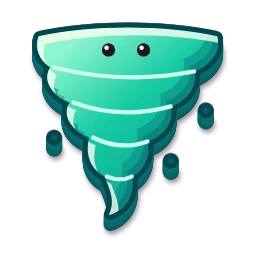
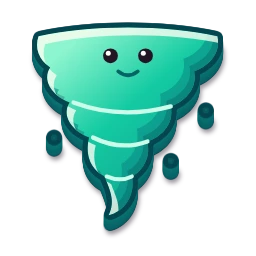
Charmfall: the charms are each kingdom's own creatures and nature (seal, snowman and polar bear on the ice, scorpion and lizard in the sand, phoenix and salamander in the fire...)

Changed region(s): [[0.1875, 0.1562, 0.7812, 0.3125]]

diff --git a/anim/charms-sea.js b/anim/charms-sea.js
@@ -1,8 +1,10 @@
 // The Ten Kingdoms (2026-11-23). İdris: "tılsım sembolleri çok fazla denize bağlamış... her 50 levelde bir krallık olsun: buz, ateş, orman, su,
 // hava... her birinin konsepti olsun". This file (it keeps its old name and globals from the Coral Cove days so nothing else has to change) now
 // holds the charms of all ten kingdoms: forest, water, fire, ice, air, sand, crystal, night, storm, star. Sixty charms.
+// Same day, second word from İdris: "her krallıkta tılsımlar o krallıkla, konusuyla ve temasıyla daha alakalı olsun... buz krallığıysa buz, kar, soğuk,
+// oraya ait hayvanlar ve canlılar". So every charm is a creature or a piece of nature of its kingdom; the everyday objects (mitten, lantern, boot...) are gone.
 // SEA_BL has six rows, one per colour slot (0 coral rose, 1 tangerine, 2 sun yellow, 3 lagoon turquoise, 4 ocean blue, 5 urchin violet), and each
-// row has ten names, one per kingdom in the order above: the game reads BL[slot][kingdom]. The water kingdom keeps six of the Coral Cove charms.
+// row has ten names, one per kingdom in the order above: the game reads BL[slot][kingdom]. The water kingdom keeps six of the Coral Cove charms. No charm appears in two kingdoms.
 // Shapes in a 100 x 100 box, same format as BLA: b = body parts, d = details. Every body part must run clockwise on screen, because the parts
 // are joined with the non-zero rule and a part wound the other way cuts a hole where it overlaps its neighbour; cw() below turns any part that
 // was drawn the other way, so a new shape cannot get this wrong. Body paths use only absolute M L C Q Z and one sub-path each.
@@ -37,55 +39,53 @@
   // shared outlines
   const STEM = "M36 62 L64 62 C63 73 68 84 70 91 C60 96 40 96 30 91 C32 84 37 73 36 62 Z";
   const ACAP = "M8 44 C8 24 28 14 50 14 C72 14 92 24 92 44 C92 50 88 52 50 52 C12 52 8 50 8 44 Z";
-  const CHST = "M22 36 C10 32 6 20 10 6 L20 8 C18 18 22 24 32 26 Z";
   const FLM = "M50 44 C58 54 68 62 66 76 C64 88 58 92 50 92 C42 92 34 86 34 74 C34 62 44 56 50 44 Z";
-  const CFL = "M50 2 C58 12 63 20 61 28 C59 35 54 37 50 37 C46 37 41 35 39 28 C37 20 42 12 50 2 Z";
   const FARM = "M44 50 L44 24 L32 14 L39 7 L44 12 L44 2 L56 2 L56 12 L61 7 L68 14 L56 24 L56 50 Z";
-  const BLADE = "M50 44 L50 2 C72 2 90 18 90 34 Z", FOLD = "M50 44 L50 8 L68 28 Z";
+  const BLADE = "M50 44 L50 2 C72 2 90 18 90 34 Z", FOLD = "M50 44 L50 10 L61 23 Z";
   const BEAK = "M16 46 L2 52 L16 58 Z", BOLT = "M53 60 L40 80 L50 80 L43 99 L64 74 L54 74 L61 60 Z";
-  const GEM = "M30 16 L40 2 L60 2 L70 16 L50 38 Z", SKB = "M14 84 L98 84 C98 92 92 97 84 97 L20 97 C10 97 4 90 6 82 L12 80 Z";
-  const LEAF = "M50 24 C40 6 22 2 10 8 C18 24 34 30 50 24 Z";
 
   const S = {
     // ================= 0 forest =================
-    mushroom: { b: ["M34 58 L66 58 C64 72 70 84 72 92 C60 98 40 98 28 92 C30 84 36 72 34 58 Z", "M4 52 C4 22 26 6 50 6 C74 6 96 22 96 52 C96 60 86 62 50 62 C14 62 4 60 4 52 Z"],
-      d: [["f", STEM, CR], ["w", ["c", 28, 36, 7.5]], ["w", ["c", 52, 22, 8.5]], ["w", ["c", 76, 38, 6.5]], ["w", ["c", 54, 46, 4.5]], ["k", 43, 75, 3.2], ["k", 57, 75, 3.2], ["S", "M45 82 Q50 86 55 82", 2.4]] },
     fox: { b: [...both("M8 4 L42 26 L14 48 Z"), "M50 22 C72 22 90 34 96 54 C90 66 70 84 50 96 C30 84 10 66 4 54 C10 34 28 22 50 22 Z"],
       d: [...both("M4 54 C18 56 34 62 44 78 L50 96 C30 84 10 66 4 54 Z").map(p => ["w", p]), ...both("M15 15 L32 27 L18 39 Z").map(p => ["f", p, CR]), ...eye(34, 52, 4.6), ...eye(66, 52, 4.6), ["k", 50, 89, 5]] },
+    squirrel: { b: ["M60 94 C84 98 99 78 97 54 C96 32 84 18 68 18 C55 18 49 30 54 42 C58 34 68 35 72 43 C78 55 72 70 58 78 Z", ["e", 36, 94, 15, 5, 0], ["e", 46, 68, 22, 26, 0], "M24 24 L21 5 L35 16 Z", "M38 22 L40 3 L52 18 Z", ["e", 21, 42, 11, 9, 0], ["c", 35, 36, 19]],
+      d: [...eye(30, 33, 4), ["k", 12, 40, 3], ["S", "M14 46 Q19 49 24 46", 2], ["f", ["c", 32, 45, 4], PK], ["w", ["e", 42, 72, 10, 15, 0]], ["f", ["c", 25, 64, 7.5], "#b9772e"], ["S", "M18 62 L32 62", 2], ["s", "M72 26 C88 32 90 58 78 76", 3]] },
     acorn: { b: ["M46 18 L46 6 C48 0 58 0 58 6 L54 9 L54 18 Z", "M18 44 L82 44 C84 70 68 88 50 98 C32 88 16 70 18 44 Z", ACAP],
       d: [["f", ACAP, "#b9772e"], ["S", "M22 28 L34 50 M38 18 L50 50 M56 16 L66 50 M72 22 L82 46", 2], ...face(64, 9), ...cheeks(73, 18), ["w", ["e", 30, 60, 3, 6, .4]]] },
     pine: { b: ["M50 2 L72 28 L61 28 L82 54 L69 54 L94 84 L59 84 L59 98 L41 98 L41 84 L6 84 L31 54 L18 54 L39 28 L28 28 Z"],
       d: [["f", "M43 85 L57 85 L57 97 L43 97 Z", BR], ["s", "M36 31 Q50 39 64 31", 3], ["s", "M26 57 Q50 68 74 57", 3], ["w", ["c", 50, 14, 3.4]], ["f", ["c", 34, 72, 3.6], YL], ["f", ["c", 62, 70, 3.6], RED], ["f", ["c", 46, 46, 3.2], RED]] },
     butterfly: { b: [["e", 26, 32, 24, 26, -.4], ["e", 74, 32, 24, 26, .4], ["e", 30, 74, 19, 20, .4], ["e", 70, 74, 19, 20, -.4], ["e", 50, 52, 8, 32, 0]],
       d: [["w", ["c", 24, 30, 9]], ["w", ["c", 76, 30, 9]], ["f", ["c", 30, 76, 7], YL], ["f", ["c", 70, 76, 7], YL], ["f", ["e", 50, 53, 3.6, 26, 0], "#1c2a6b"], ["S", "M47 22 Q42 8 33 6 M53 22 Q58 8 67 6", 3], ["k", 33, 6, 2.6], ["k", 67, 6, 2.6]] },
-    berry: { b: [...both(LEAF), "M46 26 L46 10 L54 10 L54 26 Z", ["c", 29, 44, 15], ["c", 71, 44, 15], ["c", 50, 40, 15], ["c", 39, 64, 15], ["c", 61, 64, 15], ["c", 50, 84, 15]],
-      d: [...both(LEAF).map(p => ["f", p, G]), ...[[29, 44], [71, 44], [50, 40], [39, 64], [61, 64], [50, 84]].map(([x, y]) => ["w", ["c", x - 5, y - 6, 3]]), ["k", 44, 58, 3], ["k", 56, 58, 3], ["S", "M46 65 Q50 68 54 65", 2.2]] },
-    // ================= 1 water (Coral Cove) =================
+    mushroom: { b: ["M34 58 L66 58 C64 72 70 84 72 92 C60 98 40 98 28 92 C30 84 36 72 34 58 Z", "M4 52 C4 22 26 6 50 6 C74 6 96 22 96 52 C96 60 86 62 50 62 C14 62 4 60 4 52 Z"],
+      d: [["f", STEM, CR], ["w", ["c", 28, 36, 7.5]], ["w", ["c", 52, 22, 8.5]], ["w", ["c", 76, 38, 6.5]], ["w", ["c", 54, 46, 4.5]], ["k", 43, 75, 3.2], ["k", 57, 75, 3.2], ["S", "M45 82 Q50 86 55 82", 2.4]] },
+    // ================= 1 water =================
     starfish: { b: [puffStar], d: [...face(52, 8), ...cheeks(60, 15), ...[[50, 22], [50, 34], [24, 46], [76, 46], [34, 80], [66, 80]].map(([x, y]) => ["o", x, y])] },
-    seahorse: { b: ["M42 6 C60 2 74 14 74 30 C74 40 70 46 72 56 C76 70 72 84 58 92 C44 98 28 92 28 78 C28 66 42 62 50 70 C54 76 50 84 44 80 C46 88 58 86 60 76 C62 66 52 60 48 52 C44 44 46 38 42 34 L22 40 C14 41 12 32 20 30 L38 24 C34 16 36 8 42 6 Z", "M72 36 C86 34 92 48 78 58 Z"], d: [...eye(52, 22, 4.4), ["f", "M72 38 C82 38 86 46 78 54 Z", YL], ["S", "M52 42 L62 40 M54 52 L66 52 M60 64 L70 66", 2.4], ["f", ["c", 44, 30, 4], PK], ["w", ["e", 60, 14, 6, 3, .5]]] },
-    shell: { b: ["M50 94 L34 88 L30 78 C8 66 2 42 14 26 C24 10 40 6 50 6 C60 6 76 10 86 26 C98 42 92 66 70 78 L66 88 Z"], d: [["S", "M50 80 L20 32", 2.8], ["S", "M50 80 L34 14", 2.8], ["S", "M50 80 L50 8", 2.8], ["S", "M50 80 L66 14", 2.8], ["S", "M50 80 L80 32", 2.8], ["w", ["e", 30, 30, 5, 10, .5]]] },
+    crab: { b: [["c", 13, 30, 13], ["c", 87, 30, 13], "M14 36 L26 34 L34 56 L22 60 Z", "M86 36 L78 60 L66 56 L74 34 Z", ["e", 12, 74, 11, 5.5, -.5], ["e", 88, 74, 11, 5.5, .5], ["e", 20, 88, 10, 5, -.3], ["e", 80, 88, 10, 5, .3], ["c", 38, 26, 9], ["c", 62, 26, 9], "M34 30 L42 30 L44 44 L36 44 Z", "M58 30 L66 30 L64 44 L56 44 Z", ["e", 50, 64, 35, 27, 0]],
+      d: [...bigEye(38, 26, 6.5), ...bigEye(62, 26, 6.5), ["S", "M6 24 L16 31 M94 24 L84 31", 3], ["S", "M40 70 Q50 79 60 70", 3.4], ...cheeks(68, 22), ["w", ["e", 38, 48, 9, 4, -.3]]] },
+    seahorse: { b: ["M42 6 C60 2 74 14 74 30 C74 40 70 46 72 56 C76 70 72 84 58 92 C44 98 28 92 28 78 C28 66 42 62 50 70 C54 76 50 84 44 80 C46 88 58 86 60 76 C62 66 52 60 48 52 C44 44 46 38 42 34 L22 40 C14 41 12 32 20 30 L38 24 C34 16 36 8 42 6 Z", "M72 36 C86 34 92 48 78 58 Z"], d: [...eye(52, 22, 4.4), ["f", "M72 38 C82 38 86 46 78 54 Z", OR], ["S", "M52 42 L62 40 M54 52 L66 52 M60 64 L70 66", 2.4], ["f", ["c", 44, 30, 4], PK], ["w", ["e", 60, 14, 6, 3, .5]]] },
     turtle: { b: [["c", 86, 56, 13], ["e", 22, 84, 11, 8, 0], ["e", 68, 84, 11, 8, 0], "M4 72 C4 36 24 14 48 14 C72 14 92 36 92 72 Z"], d: [["f", "M30 44 L48 32 L66 44 L62 62 L34 62 Z", "#137a26"], ["S", "M48 14 L48 32 M30 44 L12 40 M66 44 L84 40 M34 62 L24 72 M62 62 L72 72", 3], ...eye(90, 52, 3), ["S", "M86 62 Q90 65 94 62", 2.2]] },
     whale: { b: ["M78 50 L92 26 C100 42 98 60 88 68 Z", WHALE], d: [...eye(24, 52, 4.2), ["w", "M10 70 C28 84 56 86 76 74 C60 92 22 92 10 70 Z"], ["S", "M12 62 Q18 67 24 63", 3], ["f", ["c", 34, 62, 5], PK], ["S", "M46 26 Q42 14 34 12 M48 26 Q52 14 60 12", 2.6]] },
     octopus: { b: ["M50 6 C78 6 92 28 90 48 C89 58 86 62 88 70 C90 80 98 80 98 88 C98 97 82 97 78 86 C76 80 74 74 70 76 C66 78 70 90 64 95 C58 99 52 92 54 82 C55 78 52 76 50 76 C48 76 45 78 46 82 C48 92 42 99 36 95 C30 90 34 78 30 76 C26 74 24 80 22 86 C18 97 2 97 2 88 C2 80 10 80 12 70 C14 62 11 58 10 48 C8 28 22 6 50 6 Z"], d: [...face(42, 13), ...cheeks(52, 24), ["w", ["e", 30, 20, 8, 4, -.5]]] },
     // ================= 2 fire =================
-    chili: { b: [CHST, "M22 30 C22 16 40 10 58 16 C82 24 96 50 90 78 C88 88 84 94 78 98 C80 84 76 66 62 54 C52 46 40 46 30 44 C24 42 22 36 22 30 Z"],
-      d: [["f", CHST, G], ["w", ["e", 66, 28, 9, 3.4, .6]], ...eye(38, 29, 3.8), ...eye(53, 33, 3.8), ["S", "M40 37 Q46 41 51 40", 2.4]] },
+    phoenix: { b: [...both("M46 58 C34 62 14 56 1 32 C8 36 14 36 18 31 C13 22 13 12 17 1 C23 10 29 14 36 16 C34 23 36 30 46 40 Z"), "M38 70 C34 84 26 92 12 98 C28 101 40 96 50 100 C60 96 72 101 88 98 C74 92 66 84 62 70 Z", "M44 20 C40 10 46 3 52 0 C52 6 60 10 56 20 Z", ["e", 50, 57, 17, 22, 0], ["c", 50, 31, 14]],
+      d: [["f", "M46 19 C44 12 48 7 51 4 C52 9 57 12 54 19 Z", YL], ["f", ["e", 50, 61, 9, 14, 0], YL], ["k", 44.5, 29, 3], ["k", 55.5, 29, 3], ["f", "M46 34 L54 34 L50 42 Z", "#ffd21f"], ["s", "M40 48 Q24 46 10 36", 3], ["s", "M60 48 Q76 46 90 36", 3], ["f", "M50 80 C54 86 54 91 50 96 C46 91 46 86 50 80 Z", YL], ["f", "M30 84 C32 88 30 92 24 95 C24 91 26 87 30 84 Z", YL], ["f", "M70 84 C74 87 76 91 76 95 C70 92 68 88 70 84 Z", YL]] },
     flame: { b: ["M50 2 C56 20 78 30 84 54 C90 78 72 98 50 98 C28 98 10 80 16 56 C18 46 24 40 28 32 C32 42 36 46 40 44 C36 28 42 12 50 2 Z"],
       d: [["f", FLM, YL], ["k", 44, 73, 3.2], ["k", 56, 73, 3.2], ["S", "M45 80 Q50 84 55 80", 2.4]] },
-    sun: { b: [star(12, 49, 36, 50, 50), ["c", 50, 50, 35]], d: [["S", "M50 20 C66.6 20 80 33.4 80 50 C80 66.6 66.6 80 50 80 C33.4 80 20 66.6 20 50 C20 33.4 33.4 20 50 20", 1.6], ...face(46, 11), ...cheeks(56, 20)] },
+    salamander: { b: ["M30 34 L10 40 L8 49 L16 50 L34 43 Z", ["c", 9, 45, 5.5], "M46 28 L64 16 L71 22 L52 37 Z", ["c", 69, 18, 5.5], "M40 56 L20 68 L25 76 L46 65 Z", ["c", 21, 73, 5.5], "M58 50 L80 44 L83 53 L61 59 Z", ["c", 83, 48, 5.5], "M50 58 C66 64 80 76 76 90 C74 98 62 99 57 92 C64 93 68 88 64 82 C60 74 50 72 42 66 Z", ["e", 24, 16, 16, 13, .6], ["e", 44, 44, 14, 27, -.5]],
+      d: [["k", 15, 15, 3], ["k", 27, 8, 3], ["S", "M14 24 Q20 27 26 22", 2], ...[[38, 32, 5], [49, 48, 5], [57, 64, 4], [70, 82, 3.4], [28, 18, 3.4]].map(([x, y, r]) => ["f", ["c", x, y, r], "#4a3008"])] },
     dragon: { b: [...both("M30 36 L20 6 L44 26 Z"), ...both("M22 54 L2 30 L6 50 L0 60 L8 64 L4 80 L24 72 Z"), "M43 30 L50 14 L57 30 Z", ["e", 50, 60, 32, 32, 0]],
       d: [...both("M29 30 L23 13 L38 25 Z").map(p => ["f", p, CR]), ["f", ["e", 50, 74, 17, 11, 0], "#b8f5dc"], ["k", 44, 72, 2], ["k", 56, 72, 2], ...bigEye(36, 52, 8), ...bigEye(64, 52, 8), ["w", "M39 82 L43 89 L46 83 Z"], ["w", "M54 83 L57 89 L61 82 Z"]] },
-    candle: { b: [["e", 50, 92, 40, 7, 0], "M27 40 C27 35 31 33 36 33 L64 33 C69 33 73 35 73 40 L73 92 L27 92 Z", CFL],
-      d: [["f", CFL, "#ffd21f"], ["f", "M50 16 C54 22 56 26 55 30 C54 33 46 33 45 30 C44 26 46 22 50 16 Z", "#ff7a2a"], ["s", "M28 44 C36 52 40 44 44 50 C48 58 54 46 60 52 C64 56 68 48 72 46", 3], ...face(64, 9), ...cheeks(73, 17)] },
+    ember: { b: ["M30 14 L62 8 L88 30 L95 62 L74 91 L36 95 L9 74 L5 40 Z"],
+      d: [["f", "M38 16 L47 38 L36 56 L50 76 L46 92 L40 78 L27 57 L39 38 L33 18 Z", "#ff7a2a"], ["f", "M47 38 L68 44 L88 36 L90 42 L69 51 L45 44 Z", "#ffd21f"], ["f", "M50 76 L70 70 L80 82 L76 86 L68 77 L50 82 Z", "#ff7a2a"], ["k", 60, 58, 3.4], ["k", 74, 58, 3.4], ["S", "M63 65 Q67 68 71 65", 2.2], ["s", "M14 42 L28 22", 2.6]] },
     volcano: { b: [["c", 50, 13, 10], ["c", 32, 13, 6.5], ["c", 69, 10, 6.5], "M2 96 L34 30 C38 24 44 28 50 26 C56 24 62 24 66 30 L98 96 Z"],
       d: [["f", ["c", 50, 13, 8], "#ff7a2a"], ["f", ["c", 32, 13, 4.8], "#ff7a2a"], ["f", ["c", 69, 10, 4.8], "#ffd21f"], ["f", "M34 30 C38 24 44 28 50 26 C56 24 62 24 66 30 L70 40 C66 48 61 40 58 46 C56 54 49 56 47 48 C45 42 40 50 36 46 L31 36 Z", "#ff7a2a"], ["k", 42, 70, 3.6], ["k", 58, 70, 3.6], ["S", "M44 78 Q50 83 56 78", 2.6], ["s", "M20 90 L30 70 M80 90 L72 72", 2.4]] },
     // ================= 3 ice =================
-    mitten: { b: [["e", 19, 48, 12, 18, -.5], "M28 68 L28 34 C28 14 42 4 56 4 C72 4 84 16 84 34 L84 68 Z", "M22 64 L90 64 C93 64 94 66 94 69 L94 91 C94 95 92 97 88 97 L24 97 C20 97 18 95 18 91 L18 69 C18 66 19 64 22 64 Z"],
-      d: [["w", "M23 66 L89 66 C91 66 92 67 92 70 L92 90 C92 93 91 95 88 95 L24 95 C21 95 20 93 20 90 L20 70 C20 67 21 66 23 66 Z"], ["S", "M34 70 L34 91 M48 70 L48 91 M62 70 L62 91 M76 70 L76 91", 1.6], ["w", star(6, 15, 6, 56, 36)]] },
-    lantern: { b: [...band(50, 11, 11, 10, 5, 4.5), "M34 28 L38 16 L62 16 L66 28 Z", "M24 28 L76 28 C83 44 83 68 76 84 L24 84 C17 68 17 44 24 28 Z", "M20 82 L80 82 L86 98 L14 98 Z"],
-      d: [["f", "M32 35 L68 35 C73 48 73 64 68 77 L32 77 C27 64 27 48 32 35 Z", YL], ["f", "M50 42 C57 52 60 60 57 67 C55 72 45 72 43 67 C40 60 43 52 50 42 Z", "#ff7a2a"], ["S", "M34 28 L66 28", 2.4], ["s", "M20 90 L80 90", 2.4]] },
-    skate: { b: [...["M28 68 L40 68 L40 86 L28 86 Z", "M72 68 L84 68 L84 86 L72 86 Z"], SKB, "M30 4 L60 4 L60 34 C74 38 92 46 94 60 L94 72 L20 72 L20 44 C20 34 30 30 30 20 Z"],
-      d: [["f", SKB, "#dfe8f0"], ["w", "M27 2 L63 2 C65 2 66 3 66 5 L66 13 C66 15 65 16 63 16 L27 16 C25 16 24 15 24 13 L24 5 C24 3 25 2 27 2 Z"], ["S", "M44 26 L58 22 M44 36 L60 34 M46 47 L64 46", 2.6], ["s", "M24 65 L90 65", 2.4]] },
+    seal: { b: ["M84 52 L76 30 L90 40 L99 26 L99 54 Z", "M36 78 C28 88 14 96 2 94 C8 84 18 76 28 68 Z", "M8 32 C8 14 22 6 34 10 C46 14 50 28 50 42 C52 56 64 64 78 62 C84 60 88 54 90 46 L99 50 C98 60 96 70 90 78 C80 92 56 96 36 92 C18 88 8 70 8 52 Z"],
+      d: [...eye(19, 28, 4), ...eye(35, 28, 4), ["k", 27, 36, 3.2], ["S", "M22 42 Q27 46 32 42", 2], ["S", "M18 38 L7 37 M18 41 L8 44 M36 38 L46 36 M36 41 L45 44", 1.5], ...cheeks(40, 13, 27), ["w", ["e", 50, 84, 20, 5, -.05]], ["o", 62, 72], ["o", 74, 70], ["o", 68, 78]] },
+    snowman: { b: [...both("M28 62 L6 44 L3 51 L24 70 Z"), "M38 2 L62 2 L64 18 L36 18 Z", "M26 15 L74 15 L74 23 L26 23 Z", "M31 47 L69 47 L69 58 L31 58 Z", ["c", 50, 35, 18], ["c", 50, 74, 25]],
+      d: [["w", ["c", 50, 36, 13]], ["w", ["c", 50, 77, 20.5]], ["f", "M56 55 L67 55 L69 74 L59 74 Z", "#ff8a1f"], ["S", "M33 52 L67 52", 1.6], ["k", 45, 33, 2.6], ["k", 55, 33, 2.6], ["f", "M50 36 L63 39.5 L50 42 Z", "#ff7a2a"], ["S", "M44 44 Q50 48 56 44", 1.8], ["k", 48, 70, 2.6], ["k", 48, 82, 2.6], ["s", "M40 8 L60 8", 2.4]] },
+    polarbear: { b: [["c", 93, 54, 6], "M27 66 L49 66 L47 98 L29 98 Z", "M68 66 L93 66 L93 98 L70 98 Z", ["c", 16, 28, 7], ["c", 33, 28, 7], ["e", 9, 52, 9, 7.5, 0], ["e", 59, 58, 35, 24, 0], ["c", 24, 46, 19]],
+      d: [["f", ["c", 16, 28, 3.4], PK], ["f", ["c", 33, 28, 3.4], PK], ...eye(17, 42, 3.4), ...eye(31, 42, 3.4), ["k", 4, 49, 3.4], ["S", "M5 56 Q10 60 15 56", 2.2], ["f", ["c", 30, 53, 4.4], PK], ["s", "M44 40 Q62 34 80 44", 3], ["S", "M38 90 L38 98 M81 90 L81 98", 1.8]] },
     snowflake: { b: [...[0, 1, 2, 3, 4, 5].map(k => rt(FARM, k * P / 3)), ["c", 50, 50, 14]],
       d: [["w", star(6, 10, 5, 50, 50)], ...[0, 1, 2, 3, 4, 5].map(k => ["s", rt("M50 34 L50 8", k * P / 3), 2.2])] },
     penguin: { b: [["e", 36, 94, 13, 5.5, 0], ["e", 64, 94, 13, 5.5, 0], ["e", 13, 60, 8, 21, .35], ["e", 87, 60, 8, 21, -.35], ["e", 50, 52, 33, 44, 0]],
@@ -97,32 +97,32 @@
       d: [["w", "M50 3 C36 16 32 44 40 77 L60 77 C68 44 64 16 50 3 Z"], ["S", "M22 14 C10 34 18 60 37 77 M78 14 C90 34 82 60 63 77", 2], ["f", "M36 85 L64 85 L61 98 L39 98 Z", "#b9772e"], ["S", "M37 91 L63 91", 1.8]] },
     kite: { b: ["M46 78 L54 78 C54 86 66 84 72 90 C76 94 82 94 88 90 L90 97 C82 101 72 99 66 94 C58 88 46 92 46 78 Z", "M50 2 L90 40 L50 82 L10 40 Z"],
       d: [["w", "M50 6 L86 40 L50 40 Z"], ["w", "M14 40 L50 40 L50 78 Z"], ["S", "M50 4 L50 80 M12 40 L88 40", 2.4], ["k", 50, 40, 3]] },
-    canary: { b: ["M76 50 L99 30 L98 58 L84 68 Z", BEAK, "M34 30 C30 18 38 10 46 14 C42 18 44 26 48 30 Z", ["e", 48, 58, 34, 30, 0]],
+    sparrow: { b: ["M76 50 L99 30 L98 58 L84 68 Z", BEAK, "M34 30 C30 18 38 10 46 14 C42 18 44 26 48 30 Z", ["e", 48, 58, 34, 30, 0]],
       d: [["f", BEAK, "#ff8a2a"], ...bigEye(30, 48, 7.5), ["f", "M40 60 C54 50 72 58 74 72 C60 82 44 76 40 60 Z", "#f0a81a"], ["f", ["c", 24, 63, 4.5], PK], ["S", "M42 88 L42 98 M56 88 L56 98 M37 98 L47 98 M51 98 L61 98", 2.6]] },
-    plane: { b: ["M98 6 L2 44 L36 58 L44 92 L58 68 L78 82 Z"],
-      d: [["f", "M36 58 L98 6 L58 68 L44 92 Z", "#0b8f88"], ["S", "M98 6 L36 58 M98 6 L58 68", 2.2], ["s", "M14 44 L70 22", 2.4]] },
+    dragonfly: { b: [["e", 25, 29, 25, 10, -.25], ["e", 75, 29, 25, 10, .25], ["e", 28, 51, 22, 9, .3], ["e", 72, 51, 22, 9, -.3], "M44 40 L56 40 L54 95 C53 100 47 100 46 95 Z", ["e", 50, 33, 10, 13, 0], ["c", 50, 13, 11]],
+      d: [["w", ["e", 25, 29, 19, 5.5, -.25]], ["w", ["e", 75, 29, 19, 5.5, .25]], ["w", ["e", 28, 51, 16, 5, .3]], ["w", ["e", 72, 51, 16, 5, -.3]], ["k", 44, 11, 4], ["k", 56, 11, 4], ["S", "M46 19 Q50 22 54 19", 1.8], ["S", "M45 52 L55 52 M45.5 64 L54.5 64 M46 76 L54 76 M46.5 88 L53.5 88", 2]] },
     cloud: { b: ["M28 60 L74 60 L74 84 L28 84 Z", ["c", 26, 60, 24], ["c", 76, 60, 22], ["c", 50, 42, 28]],
       d: [...face(56, 11), ...cheeks(66, 21), ["w", ["e", 40, 25, 9, 4, -.5]]] },
-    pinwheel: { b: ["M46 44 L54 44 L54 100 L46 100 Z", ...[0, 1, 2, 3].map(k => rt(BLADE, k * P / 2, 50, 44))],
-      d: [...[0, 1, 2, 3].map(k => ["w", rt(FOLD, k * P / 2, 50, 44)]), ["f", ["c", 50, 44, 7], YL], ["k", 50, 44, 2.4]] },
+    eagle: { b: [...both("M43 38 C32 20 14 12 0 18 L6 29 L0 35 L8 42 L2 49 L12 54 L8 63 C22 67 34 64 44 58 Z"), "M41 68 L59 68 L66 94 L50 87 L34 94 Z", ["e", 50, 54, 14, 22, 0], ["c", 50, 29, 13]],
+      d: [["w", ["c", 50, 29, 10.5]], ["k", 45, 28, 2.6], ["k", 55, 28, 2.6], ["S", "M40 23 L47 25.5 M60 23 L53 25.5", 2], ["f", "M46 32 L54 32 L50 42 Z", "#ffc21f"], ["s", "M40 46 Q24 32 8 30", 2.6], ["s", "M60 46 Q76 32 92 30", 2.6], ["S", "M50 72 L50 86 M44 72 L41 88 M56 72 L59 88", 1.6]] },
     // ================= 5 sand =================
-    amphora: { b: [...both("M40 14 C20 8 6 24 12 40 C15 47 22 49 27 45 L31 38 C24 40 20 34 22 28 C24 22 32 20 40 23 Z"), "M32 2 L68 2 L68 11 L32 11 Z", "M38 6 L62 6 L60 14 C58 22 62 26 70 34 C84 46 84 70 68 86 L66 98 L34 98 L32 86 C16 70 16 46 30 34 C38 26 42 22 40 14 Z"],
-      d: [["s", "M21 50 Q50 58 79 50", 2.6], ["S", "M22 62 L29 70 L36 62 L43 70 L50 62 L57 70 L64 62 L71 70 L78 62", 2.4], ["s", "M27 80 Q50 87 73 80", 2.6], ["w", ["e", 35, 40, 2.6, 7, .3]], ["S", "M33 11 L67 11", 2]] },
-    camel: { b: ["M84 46 L97 60 L92 64 L81 54 Z", "M35 60 L45 60 L43 98 L34 98 Z", "M48 64 L57 64 L56 98 L48 98 Z", "M64 64 L73 64 L73 98 L65 98 Z", "M76 60 L86 60 L87 98 L78 98 Z", ["c", 30, 10, 5], "M36 58 L21 22 L34 17 L48 44 Z", ["e", 18, 21, 16, 10, -.15], ["c", 45, 38, 14], ["c", 71, 38, 14], ["e", 59, 53, 29, 17, 0]],
-      d: [...eye(17, 17, 3.2), ["S", "M5 25 Q9 28 14 26", 2], ["f", "M47 42 C54 48 62 48 69 42 L72 60 L44 60 Z", RED], ["s", "M45 55 L71 55", 2], ["f", ["c", 58, 50, 3], YL]] },
+    scorpion: { b: ["M34 80 L27 96 L34 97 L41 82 Z", "M46 82 L44 98 L51 98 L53 82 Z", "M58 80 L63 97 L70 95 L65 78 Z", "M28 68 L6 54 L13 44 L34 58 Z", "M34 62 L23 38 L34 34 L44 59 Z", ["c", 11, 42, 12.5], ["c", 29, 29, 11.5], ["c", 74, 62, 10.5], ["c", 85, 49, 10], ["c", 87, 34, 10], ["c", 78, 21, 10], ["c", 64, 15, 9.5], "M60 6 L42 20 L60 25 Z", ["e", 46, 70, 28, 17, 0]],
+      d: [["k", 28, 67, 3], ["k", 37, 64, 3], ["S", "M30 75 Q35 78 40 74", 2], ["S", "M50 57 L50 83 M60 59 L60 81", 2], ["S", "M2 38 L11 42 M22 25 L29 31", 2.4], ["w", ["e", 56, 62, 7, 2.6, -.2]]] },
+    camel: { b: ["M35 60 L45 60 L43 98 L34 98 Z", "M48 64 L57 64 L56 98 L48 98 Z", "M64 64 L73 64 L73 98 L65 98 Z", "M76 60 L86 60 L87 98 L78 98 Z", ["c", 30, 10, 5], "M36 58 L21 22 L34 17 L48 44 Z", ["e", 18, 21, 16, 10, -.15], ["c", 45, 38, 14], ["c", 71, 38, 14], ["e", 59, 53, 29, 17, 0]],
+      d: [...eye(17, 17, 3.2), ["S", "M5 25 Q9 28 14 26", 2], ["f", "M47 42 C54 48 62 48 69 42 L72 60 L44 60 Z", RED]] },
     pyramid: { b: [["e", 50, 90, 49, 8, 0], "M50 4 L98 90 L2 90 Z"],
       d: [["f", "M50 4 L98 90 L62 90 Z", "#e39a12"], ["S", "M38 30 L56 30 M28 48 L58 48 M18 66 L60 66 M46 30 L46 48 M36 48 L36 66 M50 48 L50 66", 2], ["f", "M24 90 L24 80 C24 73 36 73 36 80 L36 90 Z", "#7d4706"], ["w", ["c", 50, 14, 2.6]]] },
     cactus: { b: [["e", 50, 95, 32, 5, 0], ["c", 50, 9, 9], "M38 66 L20 66 C10 66 5 60 5 52 L5 36 C5 25 22 25 22 36 L22 50 L38 50 Z", "M62 54 L78 54 L78 30 C78 19 95 19 95 30 L95 56 C95 64 89 70 80 70 L62 70 Z", "M35 96 L35 24 C35 4 65 4 65 24 L65 96 Z"],
       d: [["f", ["c", 50, 9, 7], "#ff8fb0"], ["k", 50, 9, 2.2], ["k", 44, 42, 3.6], ["k", 56, 42, 3.6], ["S", "M45 50 Q50 54 55 50", 2.4], ...cheeks(49, 11), ...[[13, 42], [87, 38], [43, 78], [57, 84], [50, 68], [87, 58], [13, 58]].map(([x, y]) => ["o", x, y]), ["s", "M41 22 L41 34", 2.4]] },
     scarab: { b: [...both("M24 40 L6 28 L2 37 L20 51 Z"), ...both("M20 56 L0 58 L2 68 L20 67 Z"), ...both("M22 74 L6 90 L15 96 L29 83 Z"), ...both("M40 10 L32 0 L45 3 Z"), ["c", 50, 19, 15], ["e", 50, 58, 31, 37, 0]],
       d: [["S", "M50 34 L50 94", 2.6], ["S", "M22 44 Q50 28 78 44", 2.6], ["k", 44, 15, 2.6], ["k", 56, 15, 2.6], ["f", ["c", 50, 46, 5.5], YL], ["s", "M30 56 Q26 70 34 84", 2.6], ["s", "M70 56 Q74 70 66 84", 2.6]] },
-    lamp: { b: ["M16 50 C4 42 -2 54 3 64 C7 72 16 73 23 68 L20 61 C14 64 10 62 9 58 C8 54 12 52 18 57 Z", "M66 48 C78 46 86 38 99 26 C97 44 89 62 70 68 Z", ["c", 46, 27, 6], "M32 44 C32 30 60 30 60 44 Z", "M33 74 L59 74 L68 95 L24 95 Z", ["e", 46, 58, 31, 20, 0]],
-      d: [["s", "M18 50 Q46 58 74 50", 2.6], ["f", star(5, 9, 4, 46, 66), YL], ["w", ["e", 30, 46, 7, 2.6, -.4]], ["s", "M28 89 L64 89", 2.2], ["f", ["c", 46, 27, 3.6], YL]] },
+    lizard: { b: [...both("M40 30 L18 20 L15 29 L38 40 Z"), ["c", 14, 24, 6.5], ["c", 86, 24, 6.5], ...both("M40 52 L19 64 L24 72 L43 61 Z"), ["c", 19, 70, 6.5], ["c", 81, 70, 6.5], "M40 62 C38 80 52 92 67 89 C80 86 83 73 75 67 C68 62 61 69 66 75 C67 79 60 80 56 74 C53 68 57 63 60 60 Z", ["e", 50, 45, 15, 26, 0], ["e", 50, 14, 13, 13, 0]],
+      d: [["k", 44, 10, 3], ["k", 56, 10, 3], ["S", "M45 19 Q50 22 55 19", 2], ...[[50, 32, 4], [50, 45, 4.4], [50, 58, 3.6]].map(([x, y, r]) => ["f", ["c", x, y, r], YL]), ["w", ["e", 41, 40, 2.4, 8, .1]]] },
     // ================= 6 crystal =================
-    heartgem: { b: ["M50 22 C58 2 96 4 96 36 C96 60 70 80 50 98 C30 80 4 60 4 36 C4 4 42 2 50 22 Z"],
+    ruby: { b: ["M50 22 C58 2 96 4 96 36 C96 60 70 80 50 98 C30 80 4 60 4 36 C4 4 42 2 50 22 Z"],
       d: [["S", "M5 38 L30 46 L50 24 L70 46 L95 38 M30 46 L50 96 L70 46 M30 46 L70 46", 2.2], ["w", "M14 30 C14 18 24 12 34 13 L27 36 Z"], ["s", "M62 14 Q78 12 86 26", 2.6]] },
-    ring: { b: [...band(50, 62, 37, 37, 22, 22), GEM],
-      d: [["f", GEM, "#39d3c2"], ["S", "M30 16 L70 16 M40 2 L45 16 L50 38 L55 16 L60 2", 1.8], ["w", "M41 4 L49 4 L46 13 L35 14 Z"], ["s", "M22 78 Q34 94 54 94", 2.6]] },
+    snail: { b: ["M44 40 L38 16 L56 30 Z", "M58 30 L64 4 L76 28 Z", "M76 32 L92 14 L92 42 Z", "M6 80 C6 70 14 66 22 68 L20 50 C18 44 26 42 28 48 L32 66 C36 40 54 22 72 26 C90 30 98 48 94 66 C92 78 86 86 90 92 C70 98 26 98 10 92 C6 90 6 84 6 80 Z"],
+      d: [["f", "M45 38 L41 21 L54 31 Z", "#39d3c2"], ["f", "M60 28 L65 9 L74 27 Z", "#7ad8ff"], ["f", "M78 32 L90 18 L90 40 Z", "#39d3c2"], ["S", "M66 60 C66 52 76 50 80 58 C84 68 74 78 62 76 C48 74 44 56 52 46 C60 36 78 34 88 46", 3], ...eye(16, 76, 3.2), ["S", "M10 84 Q14 87 18 84", 2.2], ["k", 24, 46, 3], ["f", ["c", 22, 82, 3.4], PK]] },
     crown: { b: ["M6 86 L2 26 L28 50 L50 8 L72 50 L98 26 L94 86 C80 94 20 94 6 86 Z", ["c", 2, 24, 6], ["c", 50, 8, 7], ["c", 98, 24, 6]], d: [["f", ["c", 50, 66, 8], "#e8304a"], ["f", ["c", 26, 70, 5.5], BLU], ["f", ["c", 74, 70, 5.5], BLU], ["d", 48, 64, 2.2], ["S", "M8 80 Q50 90 92 80", 2.8], ["w", ["e", 40, 34, 3, 9, .5]]] },
     emerald: { b: ["M32 4 L68 4 L86 22 L86 78 L68 96 L32 96 L14 78 L14 22 Z"],
       d: [["S", "M36 22 L64 22 L70 28 L70 72 L64 78 L36 78 L30 72 L30 28 Z", 2.2], ["S", "M32 4 L36 22 M68 4 L64 22 M86 22 L70 28 M86 78 L70 72 M68 96 L64 78 M32 96 L36 78 M14 78 L30 72 M14 22 L30 28", 2], ["w", "M37 24 L52 24 L32 46 L32 29 Z"], ["k", 43, 52, 3.4], ["k", 57, 52, 3.4], ["S", "M45 60 Q50 64 55 60", 2.4]] },
@@ -133,25 +133,25 @@
     // ================= 7 night =================
     cat: { b: ["M70 92 C86 95 99 84 96 66 C95 58 85 59 86 68 C87 78 80 82 70 80 Z", "M27 97 C21 70 30 46 50 46 C70 46 79 70 73 97 Z", ...both("M27 24 L23 0 L46 12 Z"), ["e", 50, 30, 27, 23, 0]],
       d: [...both("M29 18 L27 6 L38 12 Z").map(p => ["f", p, CR]), ...eye(39, 29, 4.4), ...eye(61, 29, 4.4), ["f", "M46.5 36 L53.5 36 L50 40.5 Z", "#7a1a40"], ["S", "M50 41 Q46 46 43 43 M50 41 Q54 46 57 43", 1.8], ["S", "M30 36 L16 33 M30 40 L16 43 M70 36 L84 33 M70 40 L84 43", 1.6], ["w", ["e", 50, 72, 10, 15, 0]], ["S", "M43 97 L43 87 M57 97 L57 87", 2.2]] },
-    pumpkin: { b: ["M44 26 C44 14 48 8 58 3 L64 11 C57 14 56 20 56 28 Z", ["e", 28, 60, 24, 31, 0], ["e", 72, 60, 24, 31, 0], ["e", 50, 60, 27, 36, 0]],
-      d: [["f", "M45 25 C45 15 49 9 57 5 L62 11 C56 14 55 20 55 26 Z", G], ["f", "M27 46 L43 46 L35 59 Z", YL], ["f", "M57 46 L73 46 L65 59 Z", YL], ["f", "M24 68 L34 73 L42 67 L50 73 L58 67 L66 73 L76 68 C70 86 30 86 24 68 Z", YL]] },
+    hedgehog: { b: [["e", 34, 93, 10, 5, 0], ["e", 72, 93, 10, 5, 0], ["p", [...Array.from({ length: 17 }, (_, i) => { const a = P * 1.02 + i * P * .98 / 16, r = i % 2 ? 46 : 34; return [58 + Math.cos(a) * r, 72 + Math.sin(a) * r]; }), [98, 80], [60, 92], [22, 88]]], "M32 50 C18 50 6 58 1 68 C8 78 20 84 36 84 Z", ["e", 56, 76, 36, 17, 0]],
+      d: [["f", "M31 52 C18 52 8 60 4 68 C10 77 24 83 42 86 C52 74 46 58 31 52 Z", CR], ["k", 4, 67, 3.6], ...eye(23, 62, 3.6), ["S", "M12 74 Q18 78 24 75", 2], ["f", ["c", 31, 73, 4.4], PK], ["S", "M52 44 L49 54 M66 40 L64 51 M80 48 L76 57 M60 58 L58 67 M74 64 L71 72 M88 62 L84 69", 2.4]] },
     moon: { b: [star(5, 14, 6.5, 78, 36), "M66 4 C30 0 2 22 2 50 C2 78 30 100 66 96 C46 88 34 70 34 50 C34 30 46 12 66 4 Z"],
       d: [["S", "M12 44 Q18 49 24 44", 2.8], ["S", "M16 62 Q22 68 29 63", 2.8], ["f", ["c", 12, 56, 4.5], PK], ["w", ["e", 30, 16, 8, 3, -.7]], ["o", 22, 78], ["o", 34, 86], ["o", 16, 30]] },
-    ghost: { b: [["e", 8, 54, 8, 13, .5], ["e", 92, 54, 8, 13, -.5], "M12 97 L12 42 C12 18 30 4 50 4 C70 4 88 18 88 42 L88 97 L76 85 L63 97 L50 85 L37 97 L24 85 Z"],
-      d: [...bigEye(37, 38, 9), ...bigEye(63, 38, 9), ["f", ["e", 50, 60, 6.5, 8, 0], "#06323a"], ...cheeks(54, 27)] },
+    firefly: { b: [["e", 23, 40, 23, 11, -.5], ["e", 77, 40, 23, 11, .5], ["e", 50, 70, 19, 26, 0], ["e", 50, 40, 14, 15, 0], ["c", 50, 19, 12]],
+      d: [["w", ["e", 23, 40, 17, 6.5, -.5]], ["w", ["e", 77, 40, 17, 6.5, .5]], ["f", ["e", 50, 73, 14.5, 20, 0], "#fff27a"], ["S", "M38 68 Q50 74 62 68 M40 80 Q50 85 60 80", 1.8], ["k", 45, 17, 3], ["k", 55, 17, 3], ["S", "M46 24 Q50 27 54 24", 1.8], ["S", "M45 9 Q42 2 36 2 M55 9 Q58 2 64 2", 2.4], ["w", ["e", 44, 62, 3, 6, .3]]] },
     owl: { b: [...both("M18 34 L14 4 L44 22 Z"), ["e", 36, 96, 11, 4, 0], ["e", 64, 96, 11, 4, 0], ["e", 13, 64, 9, 23, .2], ["e", 87, 64, 9, 23, -.2], ["e", 50, 58, 36, 38, 0]],
       d: [["w", ["c", 35, 44, 14.5]], ["w", ["c", 65, 44, 14.5]], ["k", 36, 45, 7], ["k", 64, 45, 7], ["d", 33.5, 42, 2.4], ["d", 61.5, 42, 2.4], ["f", "M44 55 L56 55 L50 66 Z", "#ff9a2a"], ["s", "M36 74 Q41 79 46 74 M54 74 Q59 79 64 74 M45 84 Q50 89 55 84", 2.6], ["f", ["e", 36, 96, 8, 2.6, 0], "#ff9a2a"], ["f", ["e", 64, 96, 8, 2.6, 0], "#ff9a2a"]] },
     bat: { b: [...both("M42 44 C32 28 14 24 0 28 C6 38 6 48 3 58 C10 53 17 55 19 62 C23 57 29 59 31 66 C35 61 39 63 43 68 Z"), ...both("M37 32 L33 6 L50 24 Z"), ["e", 50, 62, 15, 22, 0], ["c", 50, 38, 16]],
       d: [...both("M38 26 L36 13 L45 23 Z").map(p => ["f", p, PK]), ...eye(43, 37, 3.8), ...eye(57, 37, 3.8), ["S", "M43 45 Q50 51 57 45", 2.2], ["w", "M45 47 L47.5 53 L50 48 Z"], ["w", "M50 48 L52.5 53 L55 47 Z"], ["s", "M36 44 Q22 32 6 32 M64 44 Q78 32 94 32", 2]] },
     // ================= 8 storm =================
-    umbrella: { b: ["M47 0 L53 0 L53 10 L47 10 Z", "M46 46 L54 46 L54 84 C54 99 30 99 30 84 L30 79 L39 79 L39 84 C39 89 46 89 46 84 Z", "M2 54 C4 22 26 6 50 6 C74 6 96 22 98 54 C92 45 82 45 74 54 C68 45 56 45 50 54 C44 45 32 45 26 54 C18 45 8 45 2 54 Z"],
-      d: [["w", "M50 8 C38 18 30 34 26 52 C32 45 44 45 50 52 Z"], ["S", "M50 8 L50 52 M50 8 C62 18 70 34 74 52", 2]] },
-    boot: { b: ["M20 84 L99 84 L99 94 C99 97 97 98 94 98 L25 98 C22 98 20 97 20 94 Z", "M28 6 L64 6 L64 50 C82 52 97 62 97 78 L97 88 L24 88 Z"],
-      d: [["w", "M27 3 L65 3 C67 3 68 4 68 6 L68 15 C68 17 67 18 65 18 L27 18 C25 18 24 17 24 15 L24 6 C24 4 25 3 27 3 Z"], ["S", "M22 87 L98 87", 2.4], ["s", "M36 26 L34 62", 3.4], ["f", ["c", 50, 66, 6], YL], ["s", "M70 62 Q84 66 88 76", 2.6]] },
+    pinwheel: { b: ["M46 44 L54 44 L54 100 L46 100 Z", ...[0, 1, 2, 3].map(k => rt(BLADE, k * P / 2, 50, 44))],
+      d: [...[0, 1, 2, 3].map(k => ["w", rt(FOLD, k * P / 2, 50, 44)]), ["f", ["c", 50, 44, 7], YL], ["k", 50, 44, 2.4]] },
+    gull: { b: ["M14 43 L0 50 L14 53 Z", "M70 52 L99 52 L92 60 L99 68 L70 64 Z", "M56 52 C62 34 76 24 96 22 C90 36 82 48 70 58 Z", "M42 54 C38 30 46 12 66 1 C66 20 69 38 65 56 Z", ["e", 50, 58, 27, 14, 0], ["c", 25, 46, 12]],
+      d: [["w", ["e", 49, 60, 22, 9.5, 0]], ["w", ["c", 25, 46, 9]], ["w", "M46 52 C44 34 50 20 62 9 C62 24 65 38 61 53 Z"], ["k", 22, 44, 2.6], ["s", "M62 50 Q72 36 88 28", 2.6], ["S", "M44 72 L42 82 M54 72 L54 82", 2.4]] },
     bolt: { b: ["M58 2 L14 54 L42 54 L28 98 L88 38 L57 38 L76 2 Z"],
       d: [["k", 43, 45, 3.6], ["k", 59, 45, 3.6], ["S", "M46 53 Q51 57 56 53", 2.4], ["s", "M58 9 L30 45", 2.6]] },
     tornado: { b: ["M4 6 C30 0 70 0 96 6 C98 16 90 22 84 24 C86 34 78 40 72 42 C74 52 66 58 60 60 C62 70 56 76 52 78 C54 88 48 96 40 98 C44 90 40 84 38 78 C30 74 28 66 30 58 C20 54 16 46 20 40 C10 36 6 28 10 22 C4 18 2 12 4 6 Z"],
-      d: [["s", "M12 22 Q48 31 84 24", 2.8], ["s", "M22 40 Q46 49 72 42", 2.8], ["s", "M32 58 Q46 65 60 60", 2.8], ["s", "M39 78 Q46 81 52 78", 2.6], ["k", 40, 13, 3.4], ["k", 58, 13, 3.4], ["o", 90, 44], ["o", 12, 58], ["o", 72, 70]] },
+      d: [["s", "M22 40 Q46 49 72 42", 2.8], ["s", "M32 58 Q46 65 60 60", 2.8], ["s", "M39 78 Q46 81 52 78", 2.6], ["k", 41, 16, 3.8], ["k", 59, 16, 3.8], ["S", "M45 24 Q50 28 55 24", 2.4], ["o", 90, 44], ["o", 12, 58], ["o", 72, 70]] },
     drop: { b: ["M50 4 C56 4 60 10 64 18 C76 38 88 52 88 66 C88 86 72 98 50 98 C28 98 12 86 12 66 C12 52 24 38 36 18 C40 10 44 4 50 4 Z"], d: [...face(62, 12), ...cheeks(72, 22), ["w", ["e", 34, 46, 5, 11, .5]]] },
     thunder: { b: [BOLT, "M20 70 L30 70 L24 92 L14 90 Z", "M76 70 L86 70 L80 92 L70 90 Z", "M26 38 L76 38 L76 64 L26 64 Z", ["c", 24, 42, 22], ["c", 78, 44, 20], ["c", 50, 30, 27]],
       d: [["f", BOLT, "#ffd21f"], ["k", 40, 42, 4], ["k", 60, 42, 4], ["S", "M32 33 L44 37 M68 33 L56 37", 2.8], ["S", "M44 54 Q50 49 56 54", 2.8], ["w", ["e", 38, 14, 9, 3.4, -.5]]] },
@@ -161,10 +161,10 @@
     saturn: { b: [...band(50, 52, 50, 17, 36, 7, -.38), ["c", 50, 52, 30]],
       d: [["s", rt("M2 55 C6 66 28 72 50 72 C72 72 94 66 98 55", -.38, 50, 52), 3], ...face(40, 9), ["S", "M26 66 Q40 74 56 76", 2], ["w", ["e", 36, 30, 7, 3, -.6]]] },
     star: { b: [star(5, 50, 23, 50, 54)], d: [...face(52, 8), ...cheeks(61, 15), ["w", ["e", 44, 26, 2.6, 6, .3]]] },
-    ufo: { b: [...both("M24 60 L33 62 L24 86 L15 84 Z"), ["c", 18, 88, 6], ["c", 82, 88, 6], ["c", 50, 34, 25], ["e", 50, 54, 49, 16, 0]],
-      d: [["f", "M29 40 C29 16 71 16 71 40 Z", "#c8f6ff"], ["k", 43, 30, 3.4], ["k", 57, 30, 3.4], ["S", "M46 36 Q50 39 54 36", 1.8], ["f", ["c", 20, 56, 4.5], YL], ["f", ["c", 40, 61, 4.5], YL], ["f", ["c", 60, 61, 4.5], YL], ["f", ["c", 80, 56, 4.5], YL], ["s", "M8 48 Q50 40 92 48", 2.2]] },
-    comet: { b: ["M10 52 C30 30 60 10 99 1 C86 20 78 34 74 44 C84 40 92 38 99 38 C80 50 66 66 54 86 Z", ["c", 31, 68, 27]],
-      d: [...face(64, 9, 31), ...cheeks(73, 18, 31), ["s", "M40 40 Q62 22 88 10", 3], ["s", "M60 56 Q74 46 90 42", 3]] },
+    moonrock: { b: [star(4, 11, 4, 88, 12), "M20 30 C28 10 56 4 74 16 C92 26 98 46 92 64 C88 84 68 97 46 93 C24 91 6 77 6 55 C6 45 12 38 20 30 Z"],
+      d: [["f", ["e", 34, 38, 11, 8, -.3], "#0b8f88"], ["f", ["e", 68, 68, 12, 8.5, .2], "#0b8f88"], ["f", ["e", 30, 72, 7, 5, 0], "#0b8f88"], ["f", ["c", 72, 34, 5.5], "#0b8f88"], ["k", 46, 54, 3.4], ["k", 58, 52, 3.4], ["S", "M48 61 Q53 64 58 60", 2.2], ["w", ["e", 46, 18, 8, 2.6, -.2]]] },
+    comet: { b: ["M10 56 C28 34 58 12 99 1 C90 14 84 24 80 32 L97 29 C86 40 78 48 72 56 L90 57 C74 66 62 76 50 92 Z", ["c", 29, 70, 23]],
+      d: [...face(66, 8, 29), ...cheeks(75, 15, 29), ["s", "M36 44 Q58 24 86 10", 3], ["s", "M58 52 Q72 42 86 36", 2.6], ["w", ["e", 20, 56, 5, 2.4, -.7]]] },
     alien: { b: [...both("M30 24 L19 8 L26 4 L39 20 Z"), ["c", 21, 8, 7.5], ["c", 79, 8, 7.5], "M50 14 C80 14 96 34 92 56 C88 80 68 96 50 96 C32 96 12 80 8 56 C4 34 20 14 50 14 Z"],
       d: [["f", ["c", 21, 8, 5], YL], ["f", ["c", 79, 8, 5], YL], ["f", ["e", 33, 50, 11, 15, .4], "#1c1420"], ["f", ["e", 67, 50, 11, 15, -.4], "#1c1420"], ["d", 29, 44, 3.2], ["d", 63, 44, 3.2], ["S", "M42 77 Q50 83 58 77", 2.6], ["w", ["e", 50, 22, 8, 2.6, 0]]] },
   };
@@ -172,20 +172,20 @@
   window.SEA_SHAPES = S;
   // rows = colour slots (rose, tangerine, yellow, turquoise, blue, violet); columns = kingdoms (forest, water, fire, ice, air, sand, crystal, night, storm, star)
   window.SEA_BL = [
-    ["mushroom", "starfish", "chili", "mitten", "balloon", "amphora", "heartgem", "cat", "umbrella", "rocket"],
-    ["fox", "seahorse", "flame", "lantern", "kite", "camel", "ring", "pumpkin", "boot", "saturn"],
-    ["acorn", "shell", "sun", "skate", "canary", "pyramid", "crown", "moon", "bolt", "star"],
-    ["pine", "turtle", "dragon", "snowflake", "plane", "cactus", "emerald", "ghost", "tornado", "ufo"],
-    ["butterfly", "whale", "candle", "penguin", "cloud", "scarab", "diamond", "owl", "drop", "comet"],
-    ["berry", "octopus", "volcano", "igloo", "pinwheel", "lamp", "cluster", "bat", "thunder", "alien"]];
-  window.SEA_LBL = { mushroom: "Toadstool", fox: "Fox", acorn: "Acorn", pine: "Pine Tree", butterfly: "Butterfly", berry: "Blackberry",
-    starfish: "Starfish", seahorse: "Seahorse", shell: "Scallop", turtle: "Sea Turtle", whale: "Whale", octopus: "Octopus",
-    chili: "Chili Pepper", flame: "Flame", sun: "Sun", dragon: "Little Dragon", candle: "Candle", volcano: "Volcano",
-    mitten: "Mitten", lantern: "Lantern", skate: "Ice Skate", snowflake: "Snowflake", penguin: "Penguin", igloo: "Igloo",
-    balloon: "Hot-Air Balloon", kite: "Kite", canary: "Canary", plane: "Paper Plane", cloud: "Cloud", pinwheel: "Pinwheel",
-    amphora: "Amphora", camel: "Camel", pyramid: "Pyramid", cactus: "Cactus", scarab: "Scarab", lamp: "Magic Lamp",
-    heartgem: "Heart Gem", ring: "Gem Ring", crown: "Crystal Crown", emerald: "Emerald", diamond: "Diamond", cluster: "Amethyst",
-    cat: "Cat", pumpkin: "Pumpkin Lantern", moon: "Crescent Moon", ghost: "Little Ghost", owl: "Owl", bat: "Bat",
-    umbrella: "Umbrella", boot: "Rain Boot", bolt: "Lightning Bolt", tornado: "Tornado", drop: "Raindrop", thunder: "Thundercloud",
-    rocket: "Rocket", saturn: "Ringed Planet", star: "Star", ufo: "Flying Saucer", comet: "Comet", alien: "Little Alien" };
+    ["fox", "starfish", "phoenix", "seal", "balloon", "scorpion", "ruby", "cat", "pinwheel", "rocket"],
+    ["squirrel", "crab", "flame", "snowman", "kite", "camel", "snail", "hedgehog", "gull", "saturn"],
+    ["acorn", "seahorse", "salamander", "polarbear", "sparrow", "pyramid", "crown", "moon", "bolt", "star"],
+    ["pine", "turtle", "dragon", "snowflake", "dragonfly", "cactus", "emerald", "firefly", "tornado", "moonrock"],
+    ["butterfly", "whale", "ember", "penguin", "cloud", "scarab", "diamond", "owl", "drop", "comet"],
+    ["mushroom", "octopus", "volcano", "igloo", "eagle", "lizard", "cluster", "bat", "thunder", "alien"]];
+  window.SEA_LBL = { fox: "Fox", squirrel: "Squirrel", acorn: "Acorn", pine: "Pine Tree", butterfly: "Butterfly", mushroom: "Toadstool",
+    starfish: "Starfish", crab: "Crab", seahorse: "Seahorse", turtle: "Sea Turtle", whale: "Whale", octopus: "Octopus",
+    phoenix: "Phoenix", flame: "Flame", salamander: "Salamander", dragon: "Little Dragon", ember: "Ember Stone", volcano: "Volcano",
+    seal: "Seal", snowman: "Snowman", polarbear: "Polar Bear", snowflake: "Snowflake", penguin: "Penguin", igloo: "Igloo",
+    balloon: "Hot-Air Balloon", kite: "Kite", sparrow: "Sparrow", dragonfly: "Dragonfly", cloud: "Cloud", eagle: "Eagle",
+    scorpion: "Scorpion", camel: "Camel", pyramid: "Pyramid", cactus: "Cactus", scarab: "Scarab", lizard: "Lizard",
+    ruby: "Ruby", snail: "Cave Snail", crown: "Crystal Crown", emerald: "Emerald", diamond: "Diamond", cluster: "Amethyst",
+    cat: "Cat", hedgehog: "Hedgehog", moon: "Crescent Moon", firefly: "Firefly", owl: "Owl", bat: "Bat",
+    pinwheel: "Pinwheel", gull: "Gull", bolt: "Lightning Bolt", tornado: "Tornado", drop: "Raindrop", thunder: "Storm Cloud",
+    rocket: "Rocket", saturn: "Ringed Planet", star: "Star", moonrock: "Moon Rock", comet: "Comet", alien: "Little Alien" };
 })();

diff --git a/index.html b/index.html
@@ -1659,7 +1659,7 @@ const STAR = 1000, starsOf = (pts) => Math.floor(pts / STAR);
 LEVELS.forEach((L) => { if (L.target) L.target = Math.max(STAR, Math.round(L.target / STAR) * STAR); });
 const BOOST0 = { hammer: 3, moves: 3, switch: 3, cross: 2, undo: 3 };
 // carrots are earned at a quarter of the old rate: every award is scaled, the remainder waits in the jar (save.carrotFrac) until a whole carrot is due
-const ART_Q = location.protocol === "file:" ? "" : "?v=1123a";   /* bump when the painted art in anim/ is baked again, so no browser keeps an old picture (the iOS app reads files, no query there) */
+const ART_Q = location.protocol === "file:" ? "" : "?v=1123b";   /* bump when the painted art in anim/ is baked again, so no browser keeps an old picture (the iOS app reads files, no query there) */
 const RWM = 1.5, BXM = 3, rwN = (c) => Math.max(1, Math.floor(RWM * c + 1e-9));   /* 2026-11-23 İdris "booster ve ödül sayısını %25 azalt": boosters x3 (was 4), unlimited-lives time x1.5 (was 2), carrots through rwN (whole carrots: 1 -> 1, 2 -> 3, 3 -> 4) */   // before: const RWM = 2, BXM = 4;   /* 2026-10-29 İdris "ödül kazanmayı yarı yarıya indir, çok fazla booster kazanıyorum": carrots and ∞ lives x2 (was 4), boosters x4 (was 8) */
 const CARROT_RATE = .03125;   // 2026-10-27 İdris: rewards come half as often (the amount of each stays the same)
 function addCarrots(n) { save.carrotFrac = (save.carrotFrac || 0) + n * CARROT_RATE * RWM; const give = Math.floor(save.carrotFrac + 1e-9); save.carrotFrac -= give; save.carrots = (save.carrots || 0) + give; carrotNew += give; return give; }
@@ -5257,6 +5257,7 @@ function bestMove() {
 // then templates with {n} slots, and lines joined with " · " are translated piece by piece. A MutationObserver catches text as it appears,
 // so nothing else in the game needs to know about languages. Solver runs stay in English (tests read the English titles).
 const TR = {
+  "Squirrel": "Sincap", "Phoenix": "Anka Kuşu", "Salamander": "Semender", "Ember Stone": "Kor Taşı", "Seal": "Fok", "Snowman": "Kardan Adam", "Polar Bear": "Kutup Ayısı", "Sparrow": "Serçe", "Dragonfly": "Yusufçuk", "Eagle": "Kartal", "Scorpion": "Akrep", "Lizard": "Kertenkele", "Ruby": "Yakut", "Cave Snail": "Mağara Salyangozu", "Hedgehog": "Kirpi", "Gull": "Martı", "Storm Cloud": "Fırtına Bulutu", "Moon Rock": "Ay Taşı",   // 2026-11-23 the kingdoms' creatures
   "Fox": "Tilki", "Blackberry": "Böğürtlen", "Chili Pepper": "Acı Biber", "Flame": "Alev", "Sun": "Güneş", "Little Dragon": "Küçük Ejderha", "Candle": "Mum", "Volcano": "Yanardağ", "Mitten": "Eldiven", "Ice Skate": "Buz Pateni", "Penguin": "Penguen", "Igloo": "İglu", "Hot-Air Balloon": "Sıcak Hava Balonu", "Kite": "Uçurtma", "Canary": "Kanarya", "Paper Plane": "Kâğıt Uçak", "Cloud": "Bulut", "Pinwheel": "Rüzgâr Gülü", "Amphora": "Amfora", "Camel": "Deve", "Pyramid": "Piramit", "Scarab": "Skarabe", "Magic Lamp": "Sihirli Lamba", "Heart Gem": "Kalp Taşı", "Gem Ring": "Taşlı Yüzük", "Crystal Crown": "Kristal Taç", "Emerald": "Zümrüt", "Diamond": "Elmas", "Cat": "Kedi", "Pumpkin Lantern": "Balkabağı Feneri", "Little Ghost": "Küçük Hayalet", "Owl": "Baykuş", "Bat": "Yarasa", "Umbrella": "Şemsiye", "Rain Boot": "Yağmur Çizmesi", "Lightning Bolt": "Şimşek", "Tornado": "Hortum", "Raindrop": "Yağmur Damlası", "Thundercloud": "Fırtına Bulutu", "Rocket": "Roket", "Ringed Planet": "Halkalı Gezegen", "Flying Saucer": "Uçan Daire", "Comet": "Kuyrukluyıldız", "Little Alien": "Küçük Uzaylı",   // 2026-11-23 the charms of the ten kingdoms
   "Win level {0} to open the line ahead": "Önündeki hattı açmak için {0}. seviyeyi kazan",
   "Good!": "İyi!", "Great!": "Harika!", "Amazing!": "Muhteşem!", "Charmtastic!": "Tılsımlı!", "{0} moves left!": "{0} hamle kaldı!", "in {0} moves": "{0} hamlede", "Score {0}": "{0} puan topla", "Clear {0} soot": "{0} is lekesini temizle", "Bring down {0} seeds": "{0} tohumu indir", "Break {0} thorns": "{0} dikeni kır", "Level {0}": "Seviye {0}",

diff --git a/story.js b/story.js
@@ -201,9 +201,9 @@
   const KGAMES = [["nests", "carrots"], ["lilypads", "nests"], ["nests", "carrots"], ["lilypads", "fireflies"], ["nests", "lilypads"], ["carrots", "nests"], ["fireflies", "carrots"], ["fireflies", "lilypads"], ["lilypads", "fireflies"], ["fireflies", "carrots"]];
   const GAME_OF = (c) => KGAMES[kOf(c)][c % 2];
   // the charm that comes home at the end of each place (anim/ch-<name>.webp, each from its own kingdom's painted set; the letter in the bottle ends the sand, a star ends the game)
-  const CHARM = ["berry", "pine", "mushroom", "acorn", "lantern", "wave", "goldfish", "drop", "dolphin", "shell", "flame", "chili", "candle", "dragon", "volcano", "snowflake", "mitten", "skate", "penguin", "igloo",
-    "cloud", "kite", "pinwheel", "balloon", "plane", "cactus", "amphora", "camel", "pyramid", "bottle", "diamond", "emerald", "cluster", "ring", "heartgem", "cat", "lamp", "owl", "bat", "moon",
-    "umbrella", "bolt", "tornado", "thunder", "sun", "rocket", "comet", "saturn", "ufo", "star"];
+  const CHARM = ["squirrel", "pine", "mushroom", "acorn", "fox", "starfish", "seahorse", "turtle", "octopus", "crab", "flame", "salamander", "phoenix", "dragon", "volcano", "snowflake", "seal", "snowman", "penguin", "igloo",
+    "cloud", "kite", "sparrow", "balloon", "eagle", "cactus", "scorpion", "camel", "pyramid", "bottle", "diamond", "emerald", "cluster", "snail", "ruby", "cat", "firefly", "owl", "bat", "moon",
+    "gull", "bolt", "tornado", "thunder", "pinwheel", "rocket", "comet", "saturn", "moonrock", "star"];
 
   // ---------------------------------------------------------------- the pages of one comic, as plain data (no DOM): what stands where and what is said
   // { scene: skin + "|" + lit, mem, l, r, c, say: [[side, who, text]], caps: [[small, text]], beat }

diff --git a/TILSIMLAR.md b/TILSIMLAR.md
@@ -6,18 +6,18 @@
 
 | Seviye | Krallık | Gül | Turuncu | Sarı | Turkuaz | Mavi | Mor |
 |---|---|---|---|---|---|---|---|
-| 1-50 | Orman | Benekli Mantar | Tilki | Meşe Palamudu | Çam Ağacı | Kelebek | Böğürtlen |
-| 51-100 | Su | Denizyıldızı | Denizatı | Tarak | Deniz Kaplumbağası | Balina | Ahtapot |
-| 101-150 | Ateş | Acı Biber | Alev | Güneş | Küçük Ejderha | Mum | Yanardağ |
-| 151-200 | Buz | Eldiven | Fener | Buz Pateni | Kar Tanesi | Penguen | İglu |
-| 201-250 | Hava | Sıcak Hava Balonu | Uçurtma | Kanarya | Kâğıt Uçak | Bulut | Rüzgâr Gülü |
-| 251-300 | Kum | Amfora | Deve | Piramit | Kaktüs | Skarabe | Sihirli Lamba |
-| 301-350 | Kristal | Kalp Taşı | Taşlı Yüzük | Kristal Taç | Zümrüt | Elmas | Ametist |
-| 351-400 | Gece | Kedi | Balkabağı Feneri | Hilal | Küçük Hayalet | Baykuş | Yarasa |
-| 401-450 | Fırtına | Şemsiye | Yağmur Çizmesi | Şimşek | Hortum | Yağmur Damlası | Fırtına Bulutu |
-| 451-500 | Yıldız | Roket | Halkalı Gezegen | Yıldız | Uçan Daire | Kuyrukluyıldız | Küçük Uzaylı |
+| 1-50 | Orman | Tilki | Sincap | Meşe Palamudu | Çam Ağacı | Kelebek | Benekli Mantar |
+| 51-100 | Su | Denizyıldızı | Yengeç | Denizatı | Deniz Kaplumbağası | Balina | Ahtapot |
+| 101-150 | Ateş | Anka Kuşu | Alev | Semender | Küçük Ejderha | Kor Taşı | Yanardağ |
+| 151-200 | Buz | Fok | Kardan Adam | Kutup Ayısı | Kar Tanesi | Penguen | İglu |
+| 201-250 | Hava | Sıcak Hava Balonu | Uçurtma | Serçe | Yusufçuk | Bulut | Kartal |
+| 251-300 | Kum | Akrep | Deve | Piramit | Kaktüs | Skarabe | Kertenkele |
+| 301-350 | Kristal | Yakut | Mağara Salyangozu | Kristal Taç | Zümrüt | Elmas | Ametist |
+| 351-400 | Gece | Kedi | Kirpi | Hilal | Ateş Böceği | Baykuş | Yarasa |
+| 401-450 | Fırtına | Rüzgâr Gülü | Martı | Şimşek | Hortum | Yağmur Damlası | Fırtına Bulutu |
+| 451-500 | Yıldız | Roket | Halkalı Gezegen | Yıldız | Ay Taşı | Kuyrukluyıldız | Küçük Uzaylı |
 
-Su krallığı Mercan Körfezi'nden altı taşı korur; Kristal Taç (eski Batık Taç) ve Yağmur Damlası (eski Su Damlası) da eski şekillerdir. Diğer 52 şekil yenidir; kullanılmayan deniz şekilleri ve görselleri silindi.
+Aynı gün ikinci karar (İdris): "Her krallıkta tılsımlar o krallıkla, konusuyla ve temasıyla daha alakalı olsun; buz krallığıysa buz, kar, soğuk, oraya ait hayvanlar ve canlılar." Bu yüzden her tılsım krallığının bir canlısı ya da doğa parçasıdır; gündelik eşyalar (eldiven, fener, çizme, şemsiye, lamba, yüzük...) çıkarıldı. Hiçbir tılsım iki krallıkta yer almaz. Tabloda olmayıp duran görseller: `ch-bottle` (hikâye, kum krallığının sonu) ve yan oyunların kullandıkları (`ch-coin`, `ch-jellyfish`, `ch-urchin`, `ch-angler`, `ch-lifebuoy`, `ch-sailboat`, `ch-shell`). Su krallığının altı taşı ve Kristal Taç, Yağmur Damlası, Mağara Salyangozu Mercan Körfezi şekillerinden gelir.
 
 Yeni şekil çizerken: her gövde parçası ekranda saat yönünde dönmeli (parçalar non-zero kuralıyla birleşir, ters dönen parça delik açar). `charms-sea.js` içindeki `cw()` ters çizilen parçayı kendisi çevirir, test de bunu denetler. Bir krallığın altı silüeti 40 pikselde birbirinden kolayca ayrılmalı.
 
